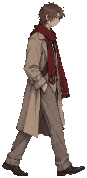
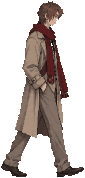
v0.10: Julian repainted by the owner — coat and gown idle/talk/walk frames and lying in the gown from tools/art/julian_v010.png (process_art4.py), no head grafting on them; think/seated get the new head; docs updated
Claude-Session: https://claude.ai/code/session_01KYrQh4BPtrMPRRbMcdt1w7

diff --git a/index.html b/index.html
@@ -30,7 +30,7 @@
     <div class="boot-title"><span class="title-lockup"><span class="w">BLOOD</span><span class="of">of the</span><span class="w">NORTH</span></span></div>
     <div class="boot-bar"><i></i></div>
     <div class="boot-note">загрузка…</div>
-    <div class="boot-ver">demo v0.09</div>
+    <div class="boot-ver">demo v0.10</div>
   </div>
   <noscript>Для игры нужен JavaScript и WebGL.</noscript>
   <script type="module" src="src/main.js"></script>

diff --git a/src/version.js b/src/version.js
@@ -1,2 +1,2 @@
 /** Demo build version — bumped by one step (0.01) with every code revision. */
-export const VERSION = '0.09';
+export const VERSION = '0.10';

diff --git a/tools/process_art4.py b/tools/process_art4.py
@@ -1,0 +1,45 @@
+"""Processes the owner's Julian sheet (v0.10, transparent PNG uploaded to the repo).
+
+Usage: python3 tools/process_art4.py tools/art/julian_v010.png <repo_root>
+
+Top row, left → right (all facing +x): coat idle, coat talk, coat walk 1, coat walk 2,
+gown idle, gown talk, gown walk 1, gown walk 2. Bottom: lying in the gown (head left).
+Every frame keeps its own painted head — no head grafting for these frames.
+"""
+import sys, os, types
+import numpy as np
+from PIL import Image
+from scipy import ndimage as nd
+
+SHEET, ROOT = sys.argv[1], sys.argv[2]
+_here = os.path.dirname(os.path.abspath(__file__))
+_src = open(os.path.join(_here, 'process_art.py')).read().split('# ------------------------------------------------------------------ portraits')[0]
+H = types.ModuleType('pa')
+sys.argv = [sys.argv[0], os.path.dirname(SHEET), ROOT]
+exec(compile(_src, 'process_art.py', 'exec'), H.__dict__)
+pixelize, RAW = H.pixelize, H.RAW
+
+a = np.asarray(Image.open(SHEET).convert('RGBA')).astype(np.float32)
+lab, n = nd.label(nd.binary_closing(a[..., 3] > 0, iterations=3))
+objs = [(i + 1, s) for i, s in enumerate(nd.find_objects(lab)) if (lab[s] == i + 1).sum() > 5000]
+
+
+def crop(i, s):
+    f = a[s].copy()
+    f[..., 3] *= (lab[s] == i)
+    return f
+
+
+stand = sorted([o for o in objs if (o[1][0].stop - o[1][0].start) > 400], key=lambda o: o[1][1].start)
+lie = [o for o in objs if (o[1][0].stop - o[1][0].start) <= 400]
+assert len(stand) == 8 and len(lie) == 1, (len(stand), len(lie))
+names = ['jul_idle', 'jul_talk', 'jul_idle_walk1', 'jul_idle_walk2', 'julg_idle', 'julg_talk', 'julg_idle_walk1', 'julg_idle_walk2']
+# one scale for the whole sheet: Julian is 185 cm in the coat idle frame
+S = 185 / (stand[0][1][0].stop - stand[0][1][0].start)
+for name, (i, s) in zip(names, stand):
+    img = pixelize(crop(i, s), S)
+    img.save(os.path.join(RAW, f'raw_{name}.png')); print('sprite', name, img.size)
+i, s = lie[0]
+f = crop(i, s)
+img = pixelize(f, 180 / f.shape[1])   # lying length ≈ 180 cm (fits the hospital bed)
+img.save(os.path.join(RAW, 'raw_lie_julian_gown.png')); print('sprite lie_julian_gown', img.size)

diff --git a/tools/build_sprites.py b/tools/build_sprites.py
@@ -731,16 +731,11 @@ for g in ['jul', 'julg']:
 JUL_HEAD = frames['jul_idle'].copy()
 # the old 'think' frame is ~10 cm shorter than the repainted coat frames: same height now
 frames['julian_think'] = match_scale(frames['julian_think'], frames['jul_idle'])
-# gown: the client's reference is the ORIGINAL painted gown walk frame (its own
-# head, bowed a little, and its own neck). That frame stays as painted; its head
-# with the whole neck and the neckline around it is copied pixel for pixel onto
-# the other gown frames, lined up on the chest front (the neck sits forward)
-GOWN_SRC, GOWN_SRC_COLLAR = 'julg_idle_walk1', 28
-GOWN_COLLAR = {'julg_idle': 27, 'julg_talk': 27, 'julg_idle_walk2': 28}
-for n in ['jul_talk', 'jul_idle_walk1', 'jul_idle_walk2', 'julian_think', 'julian_seat']:
+# v0.10: the owner repainted every coat and gown frame with one consistent head
+# (tools/process_art4.py) — those frames stay exactly as painted. Only the older
+# frames without a repaint (think, seated) get the head of the new jul_idle.
+for n in ['julian_think', 'julian_seat']:
     frames[n] = graft_head(frames[n], JUL_HEAD)
-for n, collar in GOWN_COLLAR.items():
-    frames[n] = copy_neck_collar(frames[n], frames[GOWN_SRC], GOWN_SRC_COLLAR, collar)[0]
 for n in ['jul_idle', 'jul_talk', 'julg_idle', 'julg_talk']:
     ALIASES[f'{n}_sit'] = 'julian_seat'
 # v0.08: Wyatt and Quinn standing in profile (walk source), the old woman of 107 lying

diff --git a/docs/claude/3d-style.md b/docs/claude/3d-style.md
@@ -54,9 +54,11 @@
 
 - Атлас: `python3 tools/build_sprites.py tools/raw assets/sprites` → `characters.png/.json`.
   Исходники — `tools/raw/raw_<frame>.png`; новый арт от владельца — через `tools/process_art*.py`.
-- **Голова Джулиана:** у всех кадров — голова с верхом шеи с оригинального `jul_idle` (`graft_head`).
-  Халат: голова+шея копируются пиксель-в-пиксель с оригинального `julg_idle_walk1`
-  (`copy_neck_collar`, шея вынесена вперёд, как на исходнике). Ничего не перерисовывать и не «улучшать».
+- **Джулиан (с v0.10):** все кадры пальто/халата и лёжа в халате — с листа владельца
+  `tools/art/julian_v010.png` (`tools/process_art4.py`), голова на них своя и одинаковая — **ничего не
+  пересаживать и не перерисовывать**. Голова нового `jul_idle` (`graft_head`) ставится только на старые
+  кадры без перерисовки: `julian_think`, `julian_seat`. Новые листы от владельца — так же: PNG с
+  прозрачностью → отдельный `process_art<N>.py` → `build_sprites.py`.
 - Ходьба — 6 фаз (`WALK_BEATS`), кадры шага масштабируются к росту idle.
 
 ## Конкретные решения по локациям

diff --git a/docs/claude/workflow.md b/docs/claude/workflow.md
@@ -42,6 +42,8 @@
 
 ## Ресурсы, которые присылает владелец
 
+- **Основной канал для арта — PNG с прозрачностью, загруженный владельцем в репозиторий** (рабочая
+  ветка, обычно корень или `incoming/`). Забрать `git pull`, перенести в `tools/art/` (git mv), обработать.
 - Картинки приходят в чат (сохраняются в `images/` в каталоге сессии). Сохранять важные в репо
   (`tools/raw/…` для арта, `docs/claude/…` для референсов).
 - Ссылки на Яндекс.Диск из контейнера не открываются (прокси 403) — попросить приложить файл в чат.

diff --git a/docs/claude/release.md b/docs/claude/release.md
@@ -45,3 +45,4 @@ git push origin HEAD:claude/admiring-turing-t5ns0m
 |---|---|
 | 0.08 | одна голова Джулиана на всех кадрах, профили Уайатта/Куинн, бабушка лёжа, музыка по локациям, заставки глав |
 | 0.09 | расширение больницы, свет окон + блик по референсу, машина-седан, поздняя осень, критики |
+| 0.10 | Джулиан перерисован владельцем: все кадры пальто/халата и лёжа с нового листа |

diff --git a/docs/claude/project.md b/docs/claude/project.md
@@ -9,7 +9,7 @@
 - Репозиторий: `monskov1-gif/Blood-of-the-North`
 - Рабочая ветка разработки задаётся сессией; сайт собирается с ветки `claude/admiring-turing-t5ns0m`
   (см. `release.md`).
-- Версия: `src/version.js` (на момент написания — 0.09).
+- Версия: `src/version.js` (на момент написания — 0.10).
 
 ## Сюжет и этапы (stage)
 
